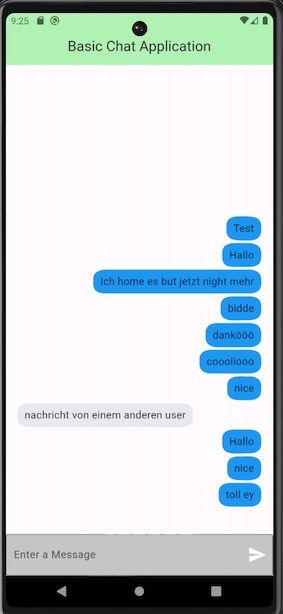
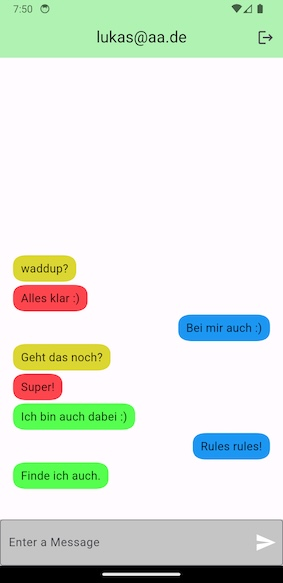
Colors to show users; firestore security rules.

diff --git a/lib/presentation/login_screen.dart b/lib/presentation/login_screen.dart
@@ -35,25 +35,22 @@ class _LoginScreenState extends State<LoginScreen> {
 
     return Scaffold(
       body: Padding(
-        padding: const EdgeInsets.all(20.0),
+        padding: const EdgeInsets.all(24.0),
         child: Column(
           mainAxisAlignment: MainAxisAlignment.center,
           children: [
             TextField(
               controller: mailController,
-              decoration: const InputDecoration(
-                labelText: 'Email',
-              ),
+              decoration: const InputDecoration(labelText: 'Email'),
+              keyboardType: TextInputType.emailAddress,
             ),
             const SizedBox(height: 20.0),
             TextField(
               controller: passwordController,
-              decoration: const InputDecoration(
-                labelText: 'Password',
-              ),
+              decoration: const InputDecoration(labelText: 'Password'),
               obscureText: true,
             ),
-            // const SizedBox(height: 20.0),
+            const SizedBox(height: 24.0),
             // SignInButton(
             //   Buttons.Google,
             //   mini: false,
@@ -66,28 +63,37 @@ class _LoginScreenState extends State<LoginScreen> {
             //     }
             //   },
             // ),
-            ElevatedButton(
-              onPressed: () {
-                String mail = mailController.text.trim();
-                String password = passwordController.text.trim();
-
-                authNotifier.loginUser(mail, password);
-              },
-              child: const Text('Login'),
-            ),
-            ElevatedButton(
-                onPressed: () {
-                  String mail = mailController.text.trim();
-                  String password = passwordController.text.trim();
-                  authNotifier.signUp(mail, password);
-                },
-                child: const Text("SignUp")),
-            ElevatedButton(
-                onPressed: () {
-                  String mail = mailController.text.trim();
-                  authNotifier.resetPassword(mail);
-                },
-                child: const Text("Reset Password"))
+            IntrinsicWidth(
+              child: Column(
+                mainAxisAlignment: MainAxisAlignment.center,
+                crossAxisAlignment: CrossAxisAlignment.stretch,
+                children: [
+                  ElevatedButton(
+                    onPressed: () {
+                      String mail = mailController.text.trim();
+                      String password = passwordController.text.trim();
+                      authNotifier.loginUser(mail, password);
+                    },
+                    child: const Text('Login'),
+                  ),
+                  ElevatedButton(
+                    onPressed: () {
+                      String mail = mailController.text.trim();
+                      String password = passwordController.text.trim();
+                      authNotifier.signUp(mail, password);
+                    },
+                    child: const Text("SignUp"),
+                  ),
+                  ElevatedButton(
+                    onPressed: () {
+                      String mail = mailController.text.trim();
+                      authNotifier.resetPassword(mail);
+                    },
+                    child: const Text("Reset Password"),
+                  ),
+                ],
+              ),
+            )
           ],
         ),
       ),

diff --git a/lib/presentation/chat_screen.dart b/lib/presentation/chat_screen.dart
@@ -2,6 +2,7 @@ import 'package:chat_bubbles/bubbles/bubble_special_three.dart';
 import 'package:cloud_firestore/cloud_firestore.dart';
 import 'package:fb_chat_example/common/auth_notifier.dart';
 import 'package:fb_chat_example/common/chat_message_notifier.dart';
+import 'package:fb_chat_example/common/constants.dart';
 import 'package:fb_chat_example/domain/message.dart';
 import 'package:fb_chat_example/presentation/bottom_sheet_content.dart';
 import 'package:flutter/material.dart';
@@ -16,13 +17,14 @@ class ChatScreen extends StatelessWidget {
     final authNotifier = Provider.of<AuthNotifier>(context);
 
     TextEditingController messageTextController = TextEditingController();
-    String appUserName = "Lukas";
+
+    final String currentUserName = authNotifier.currentUser!.email!;
 
     return Scaffold(
       appBar: AppBar(
         backgroundColor: const Color.fromARGB(255, 176, 242, 178),
         centerTitle: true,
-        title: const Text("Basic Chat Application"),
+        title: Text(authNotifier.currentUser?.email ?? '???'),
         actions: [
           IconButton(
             onPressed: () {
@@ -41,6 +43,7 @@ class ChatScreen extends StatelessWidget {
                 itemCount: chatNotifier.chatMessages.length,
                 itemBuilder: (context, index) {
                   final chatMessage = chatNotifier.chatMessages[index];
+                  final messageSenderName = chatMessage.messageSenderName;
 
                   return GestureDetector(
                     onLongPress: () {
@@ -56,13 +59,11 @@ class ChatScreen extends StatelessWidget {
                     },
                     child: BubbleSpecialThree(
                       text: chatMessage.text,
-                      isSender: chatMessage.messageSenderName == appUserName
-                          ? true
-                          : false,
+                      isSender: messageSenderName == currentUserName,
                       tail: false,
-                      color: chatMessage.messageSenderName == appUserName
-                          ? const Color(0xFF1B97F3)
-                          : const Color(0xFFE8E8EE),
+                      color: messageSenderName == currentUserName
+                          ? bubbleDefaultColor
+                          : colorForUser(messageSenderName),
                     ),
                   );
                 },
@@ -78,7 +79,7 @@ class ChatScreen extends StatelessWidget {
                     onTap: () {
                       if (!chatNotifier.isEditing) {
                         final message = _createMessage(
-                          appUserName,
+                          currentUserName,
                           messageTextController.text,
                         );
                         chatNotifier.sendMessage(message);
@@ -87,8 +88,11 @@ class ChatScreen extends StatelessWidget {
                         chatNotifier.changeEditingState(false);
                       }
                     },
-                    child:
-                        const Icon(Icons.send, size: 30, color: Colors.white),
+                    child: const Icon(
+                      Icons.send,
+                      size: 30,
+                      color: Colors.white,
+                    ),
                   ),
                   border: const OutlineInputBorder(),
                   labelText: 'Enter a Message',

diff --git a/lib/common/constants.dart b/lib/common/constants.dart
@@ -1,0 +1,13 @@
+import 'dart:ui';
+
+const Map<String, Color> userColors = {
+  'lukas@aa.de': Color(0xFFEB3AFF),
+  'angi@aa.de': Color(0xFF55FF4F),
+  'david@aa.de': Color(0xFFFE454E),
+  'kai@aa.de': Color(0xFFDCD631),
+};
+
+const Color bubbleDefaultColor = Color(0xFF1B97F3);
+
+Color colorForUser(String userName) =>
+    userColors[userName] ?? bubbleDefaultColor;

diff --git a/README.md b/README.md
@@ -1,7 +1,9 @@
 # fb_chat_example
 
 A small chat app showing how to use firebase and firestore.
+This branch is an example for the usage of security rules.
 
+## Setup
 In order to use it, you need to connect a firebase project to the app. You can do this by following the instructions on the [firebase console](https://console.firebase.google.com/).
 
 In short, run the following commands in the terminal:
@@ -10,7 +12,28 @@ In short, run the following commands in the terminal:
 flutterfire configure --project=<firebase-project-name>
 ```
 
-Messages from other users need to be added by hand in firestore, for the time being.
+## Usage
+
+You can log in with different users and then each user can send messages to a shared chat.
+
+
+## Security Rules
+
+The following security rules could be added:
+
+```javascript
+rules_version = '2';
+
+service cloud.firestore {
+  match /databases/{database}/documents {
+  	// If the users is logged in, 
+    match /messages/{documentId} {
+      allow read: if request.auth != null;
+      allow write: if request.resource.data.messageSenderName == request.auth.token.email;
+    }
+  }
+}
+```
 
 ## Screenshot
 ![](fb_chat_screenshot.jpg)
